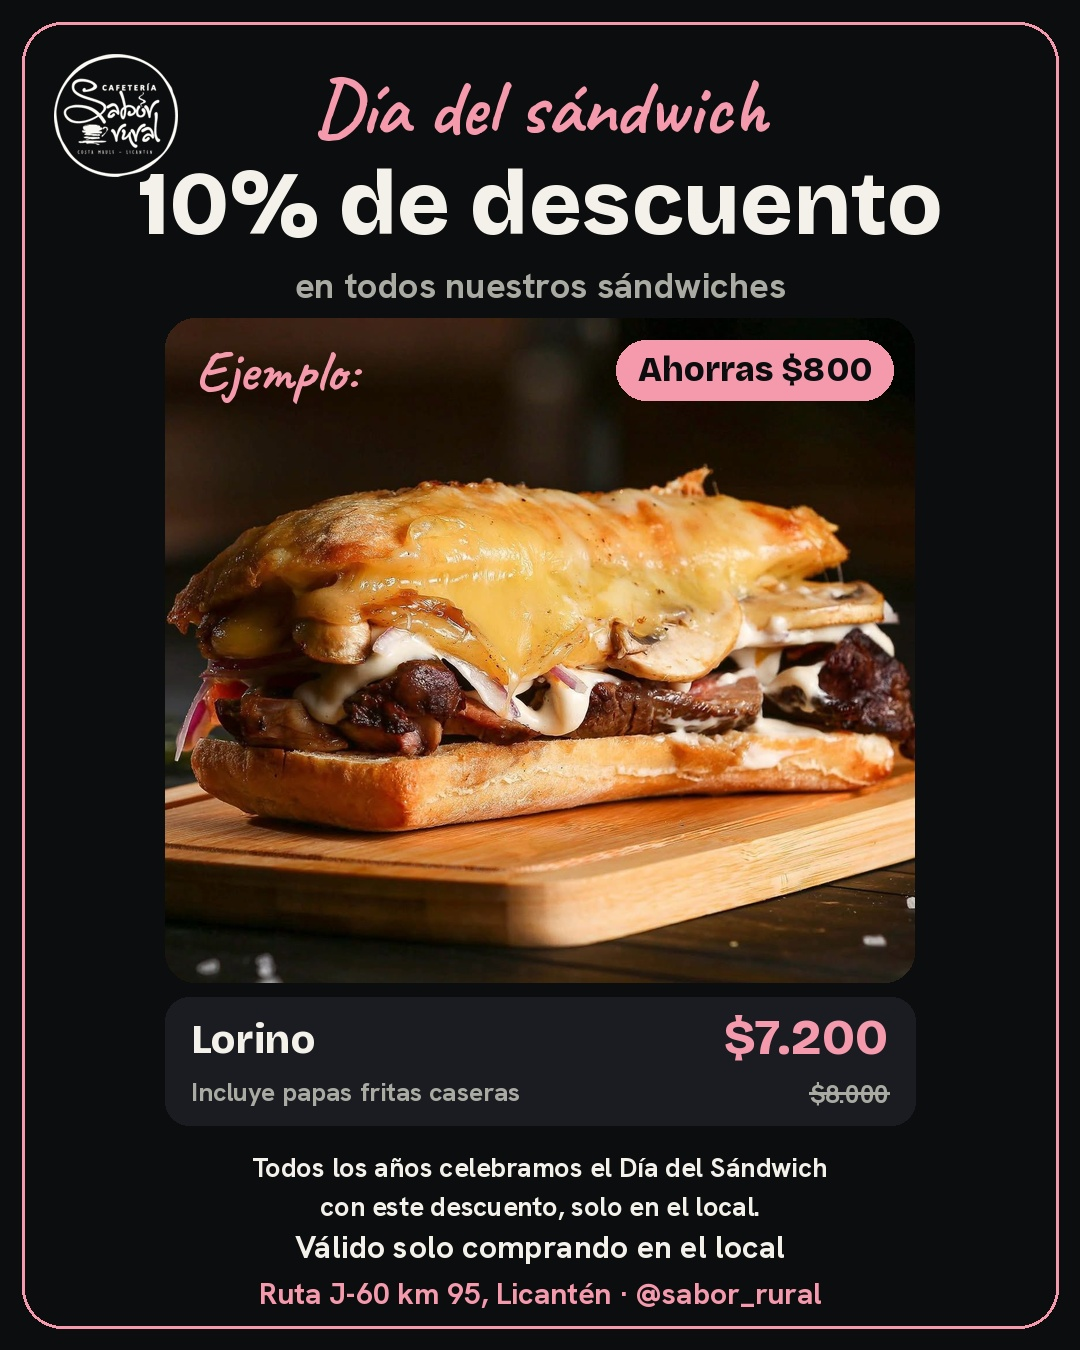
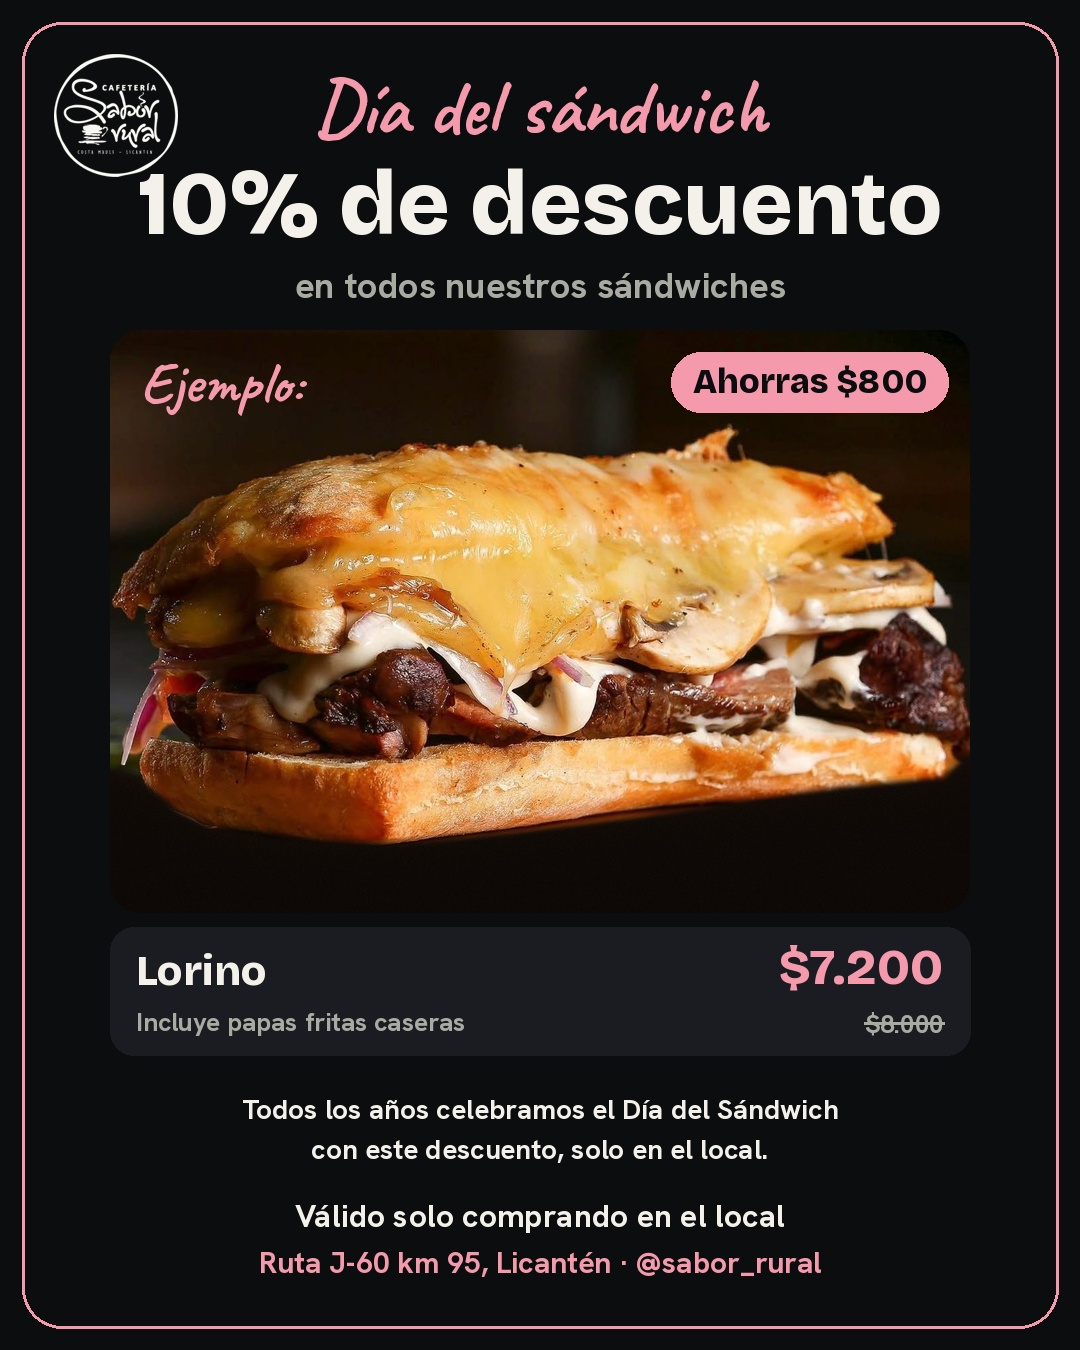
Día del Sándwich v4: foto del Lorino sin tabla de madera

Changed region(s): [[0.0917, 0.2178, 0.9167, 0.9644]]

diff --git a/herramientas/dia-sandwich.py b/herramientas/dia-sandwich.py
@@ -7,7 +7,7 @@ def rounded(im,r):
     m=Image.new("L",im.size,0); ImageDraw.Draw(m).rounded_rectangle([0,0,im.width-1,im.height-1],radius=r,fill=255); im=im.convert("RGBA"); im.putalpha(m); return im
 def trim_black(im,th=14):
     g=im.convert("L").point(lambda v:255 if v>th else 0); return im.crop(g.getbbox())
-lor=Image.open(U+"e891bb34-image.jpg").convert("RGB")
+lor=Image.open("/home/user/saborrural/media/sandwich/originales/lorino-sin-tabla.jpg").convert("RGB").crop((0,110,1290,985))
 bl=trim_black(Image.open(U+"e6385504-image.jpg").convert("RGB"))
 def ctr(d,t,f,y,col,W): d.text((W/2,y),t,font=f,fill=col,anchor="ma")
 def chip(d,x,y,w,nom,antes,ahora,fn,fi=25):
@@ -32,22 +32,22 @@ def lorino_bloque(c,d,W,y,w,fn,msg_y,msgsz):
     ahorro(c,(W+w)//2-22,y+22)
     d.text(((W-w)//2+30,y+16),"Ejemplo:",font=F("caveat700.ttf",58),fill=PINK)
     chip(d,(W-w)//2,y+h+14,w,"Lorino","$8.000","$7.200",fn,fi=26)
-    f=F("hanken700.ttf",msgsz)
+    f=F("hanken700.ttf",msgsz); msg_y=y+h+14+128+msg_y
     ctr(d,"Todos los años celebramos el Día del Sándwich",f,msg_y,CREAM,W)
     ctr(d,"con este descuento, solo en el local.",f,msg_y+int(msgsz*1.45),CREAM,W)
-    return y+h+14+128
+    return msg_y+int(msgsz*2.5)
 def story():
-    W,H=1080,1920; c,d=base(W,H)
-    ctr(d,"Día del sándwich",F("caveat700.ttf",92),150,PINK,W)
-    ctr(d,"10% de descuento",F("bricolage800.ttf",104),265,CREAM,W)
-    ctr(d,"en todos nuestros sándwiches",F("hanken700.ttf",44),400,MUTE,W)
-    e=lorino_bloque(c,d,W,500,900,48,1475,38)
-    foot(d,W,1740); c.convert("RGB").save(O+"dia-sandwich-9x16.jpg",quality=95)
+    W,H=1080,1920; c,d=base(W,H); o=140
+    ctr(d,"Día del sándwich",F("caveat700.ttf",92),150+o,PINK,W)
+    ctr(d,"10% de descuento",F("bricolage800.ttf",104),265+o,CREAM,W)
+    ctr(d,"en todos nuestros sándwiches",F("hanken700.ttf",44),400+o,MUTE,W)
+    e=lorino_bloque(c,d,W,520+o,960,48,56,38)
+    foot(d,W,e+70); c.convert("RGB").save(O+"dia-sandwich-9x16.jpg",quality=95)
 def post():
     W,H=1080,1350; c,d=base(W,H)
     ctr(d,"Día del sándwich",F("caveat700.ttf",78),58,PINK,W)
     ctr(d,"10% de descuento",F("bricolage800.ttf",90),150,CREAM,W)
     ctr(d,"en todos nuestros sándwiches",F("hanken700.ttf",36),262,MUTE,W)
-    e=lorino_bloque(c,d,W,318,750,40,1150,27)
-    foot(d,W,1226); c.convert("RGB").save(O+"dia-sandwich-post-4x5.jpg",quality=95)
+    e=lorino_bloque(c,d,W,330,860,42,36,28)
+    foot(d,W,e+34); c.convert("RGB").save(O+"dia-sandwich-post-4x5.jpg",quality=95)
 story(); post()

diff --git a/herramientas/lorino-sin-tabla.py b/herramientas/lorino-sin-tabla.py
@@ -1,0 +1,19 @@
+# Quita la tabla de madera de la foto del Lorino sin tocar el sándwich: pinta la mesa oscura bajo el borde inferior del pan.
+import numpy as np
+from PIL import Image, ImageDraw, ImageFilter
+src="/home/user/saborrural/media/sandwich/originales/lorino.jpg"; out="/home/user/saborrural/media/sandwich/originales/lorino-sin-tabla.jpg"
+im=Image.open(src).convert("RGB"); W,H=im.size
+# borde inferior del pan (x,y) de izquierda a derecha, ajustado a la foto original
+edge=[(0,770),(35,780),(55,792),(100,830),(150,855),(250,872),(430,880),(600,863),(780,841),(950,817),(1100,795),(1230,783),(1252,781),(1280,752),(1290,746)]
+m=Image.new("L",(W,H),0); d=ImageDraw.Draw(m); d.polygon(edge+[(W,H),(0,H)],fill=255)
+m=m.filter(ImageFilter.GaussianBlur(3.5))
+# mesa oscura con degradado y grano suave
+rng=np.random.default_rng(3); yy=np.linspace(0,1,H)[:,None]
+base=np.stack([30-14*yy,19-9*yy,13-6*yy],axis=-1)*np.ones((1,W,1))
+base+=rng.normal(0,2.2,(H,W,1)); table=Image.fromarray(np.clip(base,0,255).astype("uint8"))
+# sombra de contacto bajo el pan
+sh=Image.new("L",(W,H),0); ds=ImageDraw.Draw(sh); ds.polygon([(x,y+10) for x,y in edge]+[(W,H),(0,H)],fill=150)
+sh=sh.filter(ImageFilter.GaussianBlur(22)); 
+res=Image.composite(table,im,m)
+dark=Image.new("RGB",(W,H),(6,4,3)); res=Image.composite(dark,res,Image.eval(Image.composite(sh,Image.new("L",(W,H),0),m.point(lambda v:255 if v>0 else 0)),lambda v:int(v*0.55)))
+res.save(out,quality=95); print("ok")
